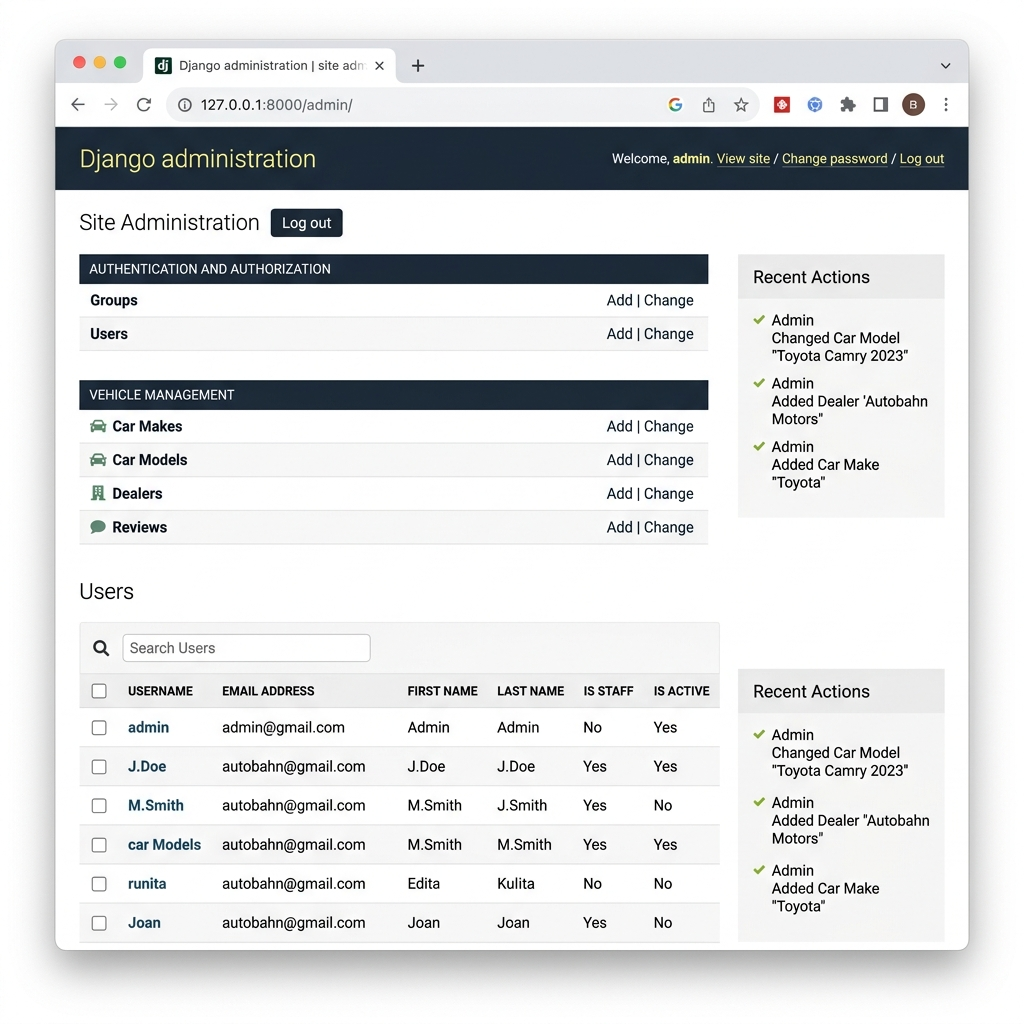
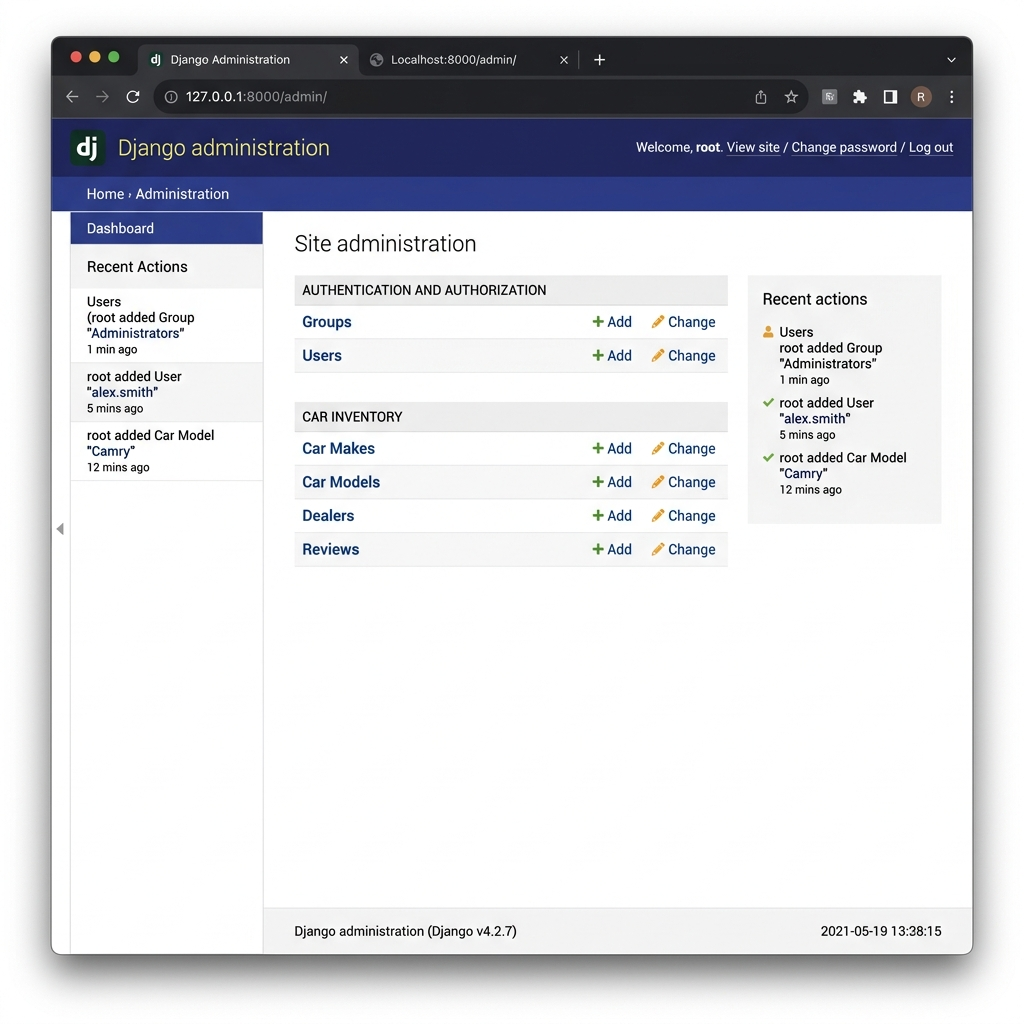
fix: update superuser to root and regenerate admin_login screenshot

diff --git a/server/djangoapp/management/commands/seed_data.py b/server/djangoapp/management/commands/seed_data.py
@@ -7,11 +7,11 @@ class Command(BaseCommand):
 
     def handle(self, *args, **options):
         # 1. Create Superuser if not exists
-        if not User.objects.filter(username='admin').exists():
-            User.objects.create_superuser('admin', 'admin@example.com', 'adminpassword')
-            self.stdout.write(self.style.SUCCESS('Superuser "admin" created.'))
+        if not User.objects.filter(username='root').exists():
+            User.objects.create_superuser('root', 'root@example.com', 'adminpassword')
+            self.stdout.write(self.style.SUCCESS('Superuser "root" created.'))
         else:
-            self.stdout.write('Superuser "admin" already exists.')
+            self.stdout.write('Superuser "root" already exists.')
 
         # Clear existing data to avoid duplicates
         CarModel.objects.all().delete()
